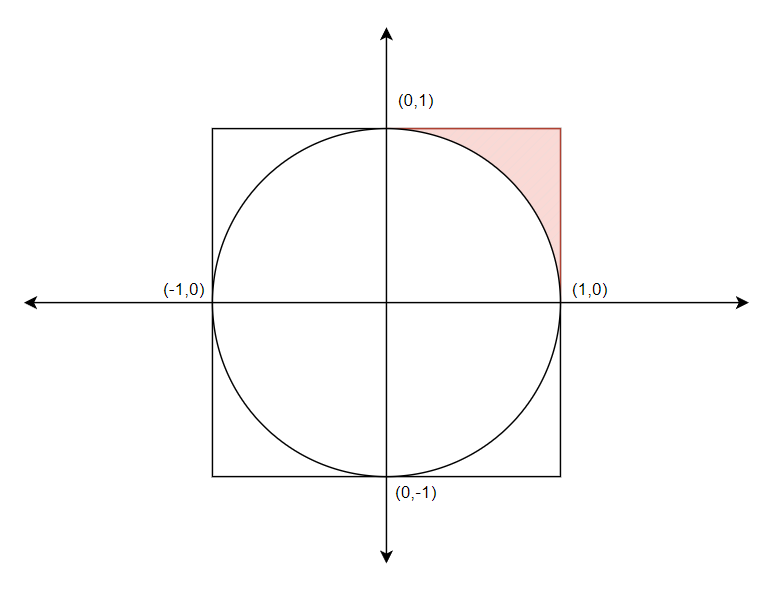
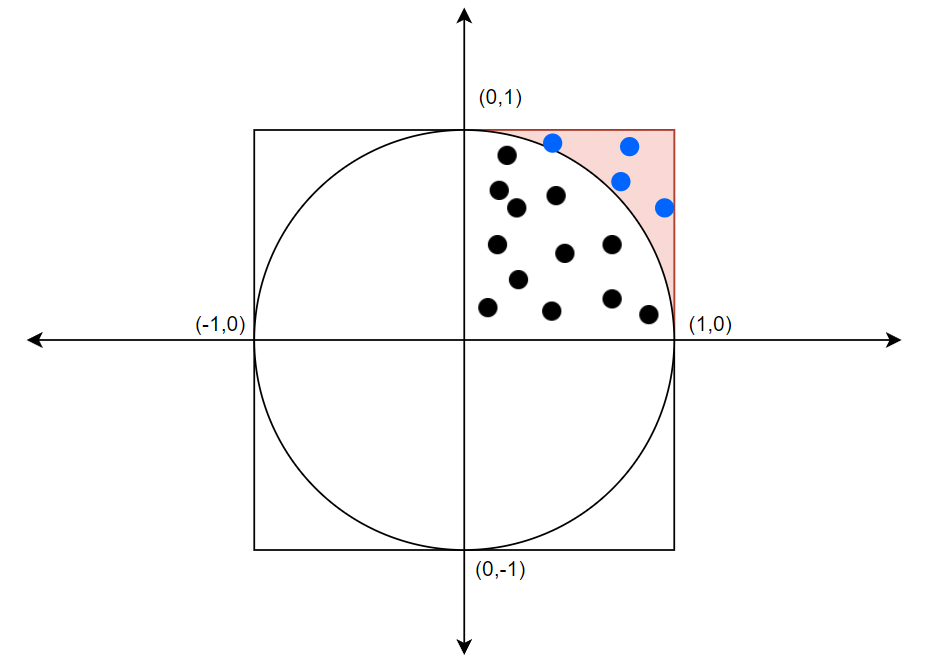
readme update 2

Changed region(s): [[0.0307, 0.0, 0.9502, 0.9884], [0.3065, 0.6589, 0.3372, 0.7188], [0.5824, 0.3594, 0.613, 0.3894]]

diff --git a/README.md b/README.md
@@ -1,7 +1,24 @@
 # php-estimatepi
  
-This example shows how to estimate pi usign generating random numbers that uniformly distributed. 
+This example shows how to estimate pi, generating random numbers that uniformly distributed. 
 
 Every pair of numbers produced will shoot the red area below.
 
 ![This is an image](/assets/draw-1.png)
+
+
+Some of them will be outside the circle and some of them will be inside the circle.
+
+![This is an image](/assets/draw-2.png)
+
+Area of Circle: πr^2
+
+Area of Square: 2r^2
+
+So;
+
+πr^2 / (2r)^2 = number of point in the circle / number of point in total
+
+and;
+
+π = 4*(number of point in the circle)/number of point in total
